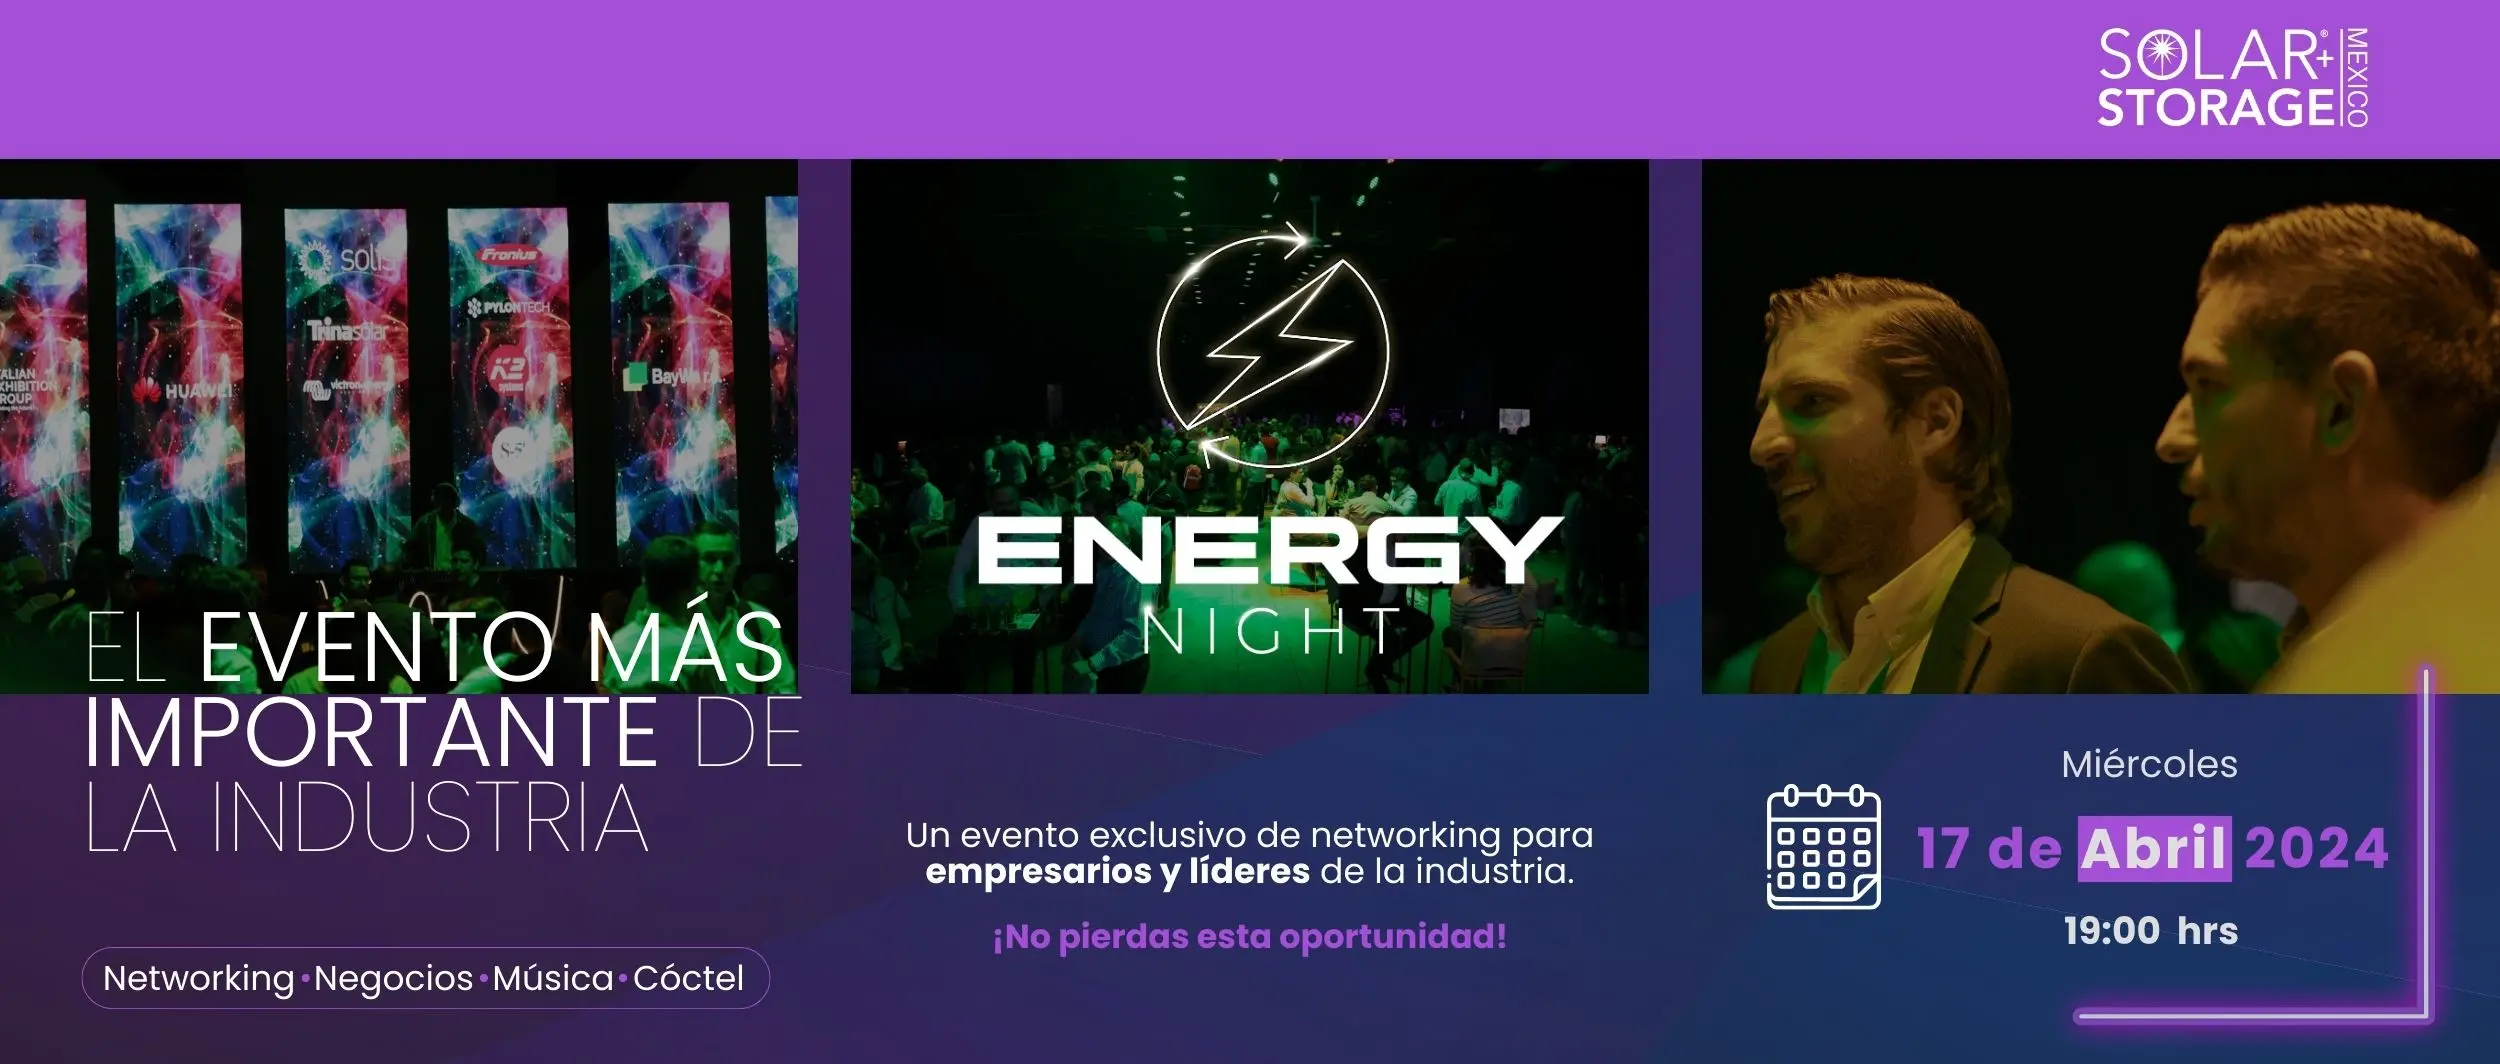
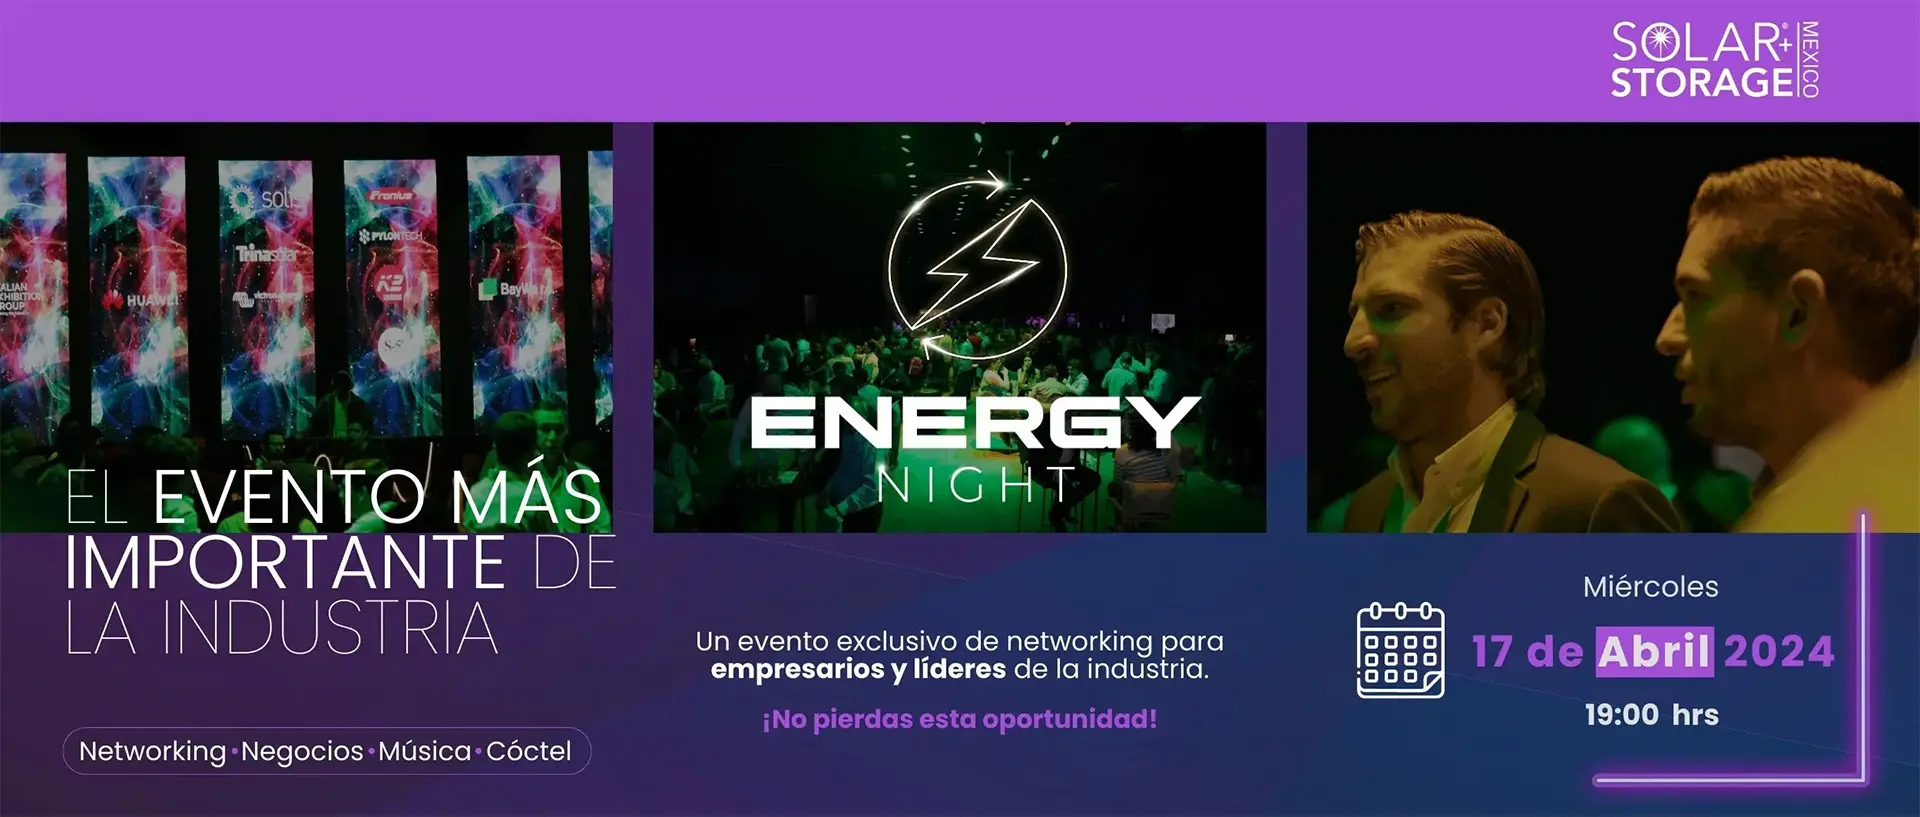
fix img

diff --git a/src/components/Home/Slider.jsx b/src/components/Home/Slider.jsx
@@ -6,14 +6,16 @@ import { useTranslation } from 'react-i18next'
 export function Slider () {
   const { i18n } = useTranslation()
   return (
-    <div className='position-relative mt-5'>
+    <div className='mt-5'>
       <Carousel interval={5000} controls={false}>
         <Carousel.Item>
           <Link to='/energy-night'>
             <img
-              className='d-block w-100 h-100'
+              className='d-block'
               src={i18n.language === 'es' ? '/banner2_esp.webp' : '/banner2_eng.webp'}
               alt='energy night mexico'
+              width={1920}
+              height={817}
               fetchpriority='high'
             />
           </Link>

diff --git a/src/components/Home/Home.css b/src/components/Home/Home.css
@@ -20,6 +20,9 @@
     background-color: #570587;
     transform: scale(1.1);
 }
+.carousel-item img{
+    width: 100%;
+}
 .lg-react-element{
     column-count: 4;    
 }
